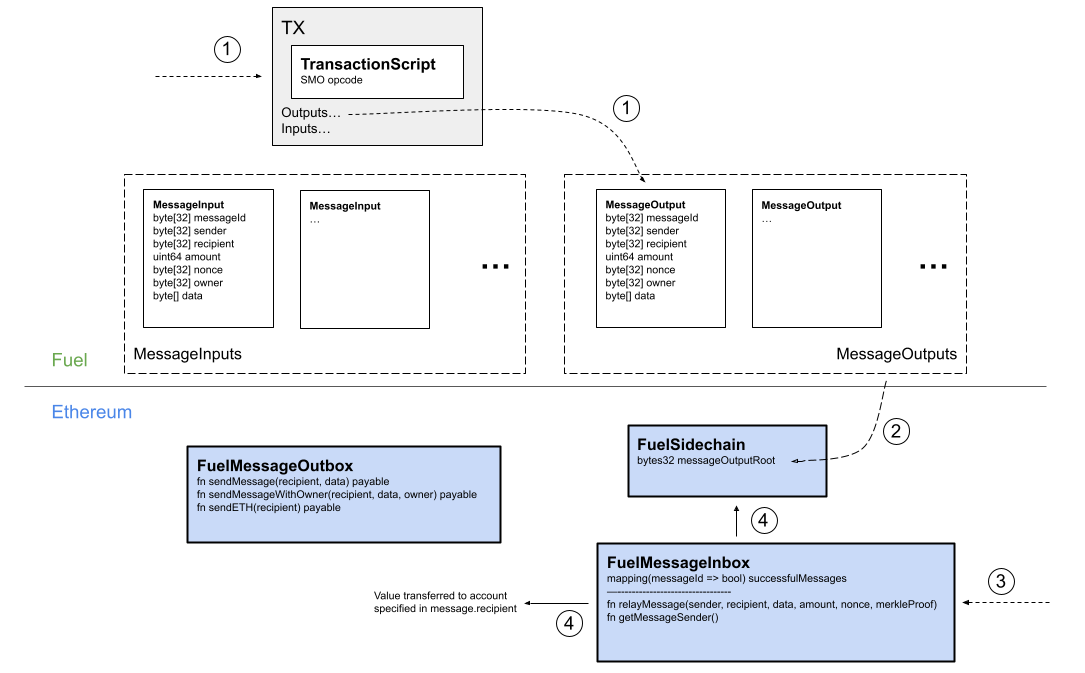
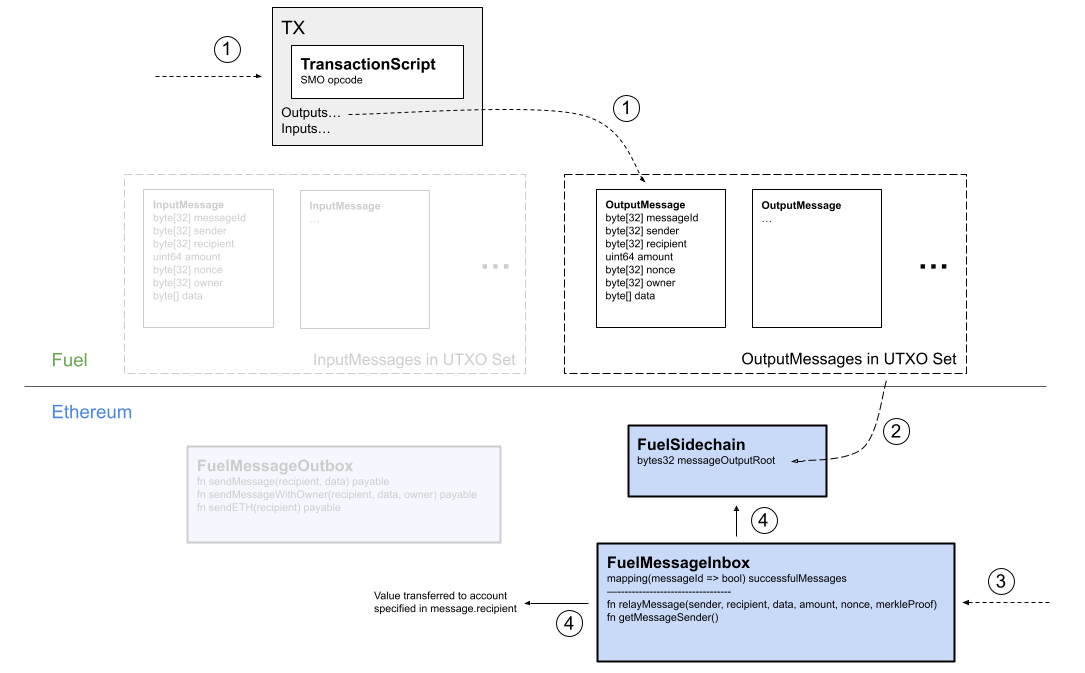
15 update documentation readability (#17)
* Fixed typos and naming

* updated images

* Updated images

diff --git a/docs/design_docs.md b/docs/design_docs.md
@@ -25,7 +25,7 @@ The ETH bridge facilitates the transfer of ETH from Ethereum to be represented a
 ### ETH Bridge Withdrawal
 
 1. User starts a withdrawal by creating a transaction that outputs a message output with a specific amount of ETH
-1. `MessageOutput` is noted on L1 by including the messagId in a merkle root in the state header committed to L1
+1. `OutputMessage` is noted on L1 by including the messagId in a merkle root in the state header committed to L1
 1. After any necessary finalization period, the user calls to the `FuelMessageInbox` with a merkle proof of the previous sent message
 1. The `FuelMessageInbox` verifies the given merkle proof and send the ETH to the designated message recipient
 
@@ -39,7 +39,7 @@ The ERC-20 bridge facilitates the transfer of ERC-20 tokens from Ethereum to be 
 
 1. User starts a deposit by calling deposit (has already approved token transfer to `L1ERC20Gateway`)
 1. `L1ERC20Gateway` transfers tokens to itself to custody while bridged
-1. `L1ERC20Gateway` creates a message in the `FuelMessageOutbox` to be relayed on Fuel with the `MessageToFungibleTokenPredicate` so that anyone can spend the `MessageInput` on a user's behalf but with guarantees that the transaction is built as it’s supposed to
+1. `L1ERC20Gateway` creates a message in the `FuelMessageOutbox` to be relayed on Fuel with the `MessageToFungibleTokenPredicate` so that anyone can spend the `InputMessage` on a user's behalf but with guarantees that the transaction is built as it’s supposed to
 1. Client sees the message on L1 via event logs
 1. A transaction is built and submitted by either the user or some relayer that meets the requirements of the `MessageToFungibleTokenPredicate`
 1. A single call is made from the transaction script to the intended recipient Fuel token contract. This function verifies the sender and predicate owner of the `InputMessage`, parses the data from the `InputMessage` data field and mints the appropriate amount of tokens
@@ -49,8 +49,8 @@ The ERC-20 bridge facilitates the transfer of ERC-20 tokens from Ethereum to be 
 ### ERC-20 Bridge Withdrawal
 
 1. User starts a withdrawal by calling the `FuelMyToken` contract sending some coins to withdraw along with it
-1. `FuelMyToken` contract looks to see what coins it was sent, burns them and then creates a `MessageOutput` via opcode
-1. `MessageOutput` is noted on L1 by including the messagId in a merkle root in the state header committed to L1
+1. `FuelMyToken` contract looks to see what coins it was sent, burns them and then creates a `OutputMessage` via opcode
+1. `OutputMessage` is noted on L1 by including the messagId in a merkle root in the state header committed to L1
 1. After any necessary finalization period, the user calls to the `FuelMessageInbox` with a merkle proof of the previous sent message
 1. The `FuelMessageInbox` verifies the given merkle proof and makes the message call to the `L1ERC20Gatewa`y specified in the message
 1. The `L1ERC20Gateway` verifies it’s being called by the `FuelMessageInbox` and releases the specified amount of tokens to the specified address
@@ -61,7 +61,7 @@ The ERC-20 bridge facilitates the transfer of ERC-20 tokens from Ethereum to be 
 
 In order to prevent messages getting lost during generic messaging from L1 to Fuel, developers should follow the following standard practice utilizing common libraries.
 
-1. Either a contract or EOA calls `sendMessage` on the `FuelMessageOutbox` that creates a message to be relayed on Fuel with the `MessageToContractPredicate` so that anyone can spend the `MessageInput` on a user's behalf but with guarantees that the transaction is built as it’s supposed to
+1. Either a contract or EOA calls `sendMessage` on the `FuelMessageOutbox` that creates a message to be relayed on Fuel with the `MessageToContractPredicate` so that anyone can spend the `InputMessage` on a user's behalf but with guarantees that the transaction is built as it’s supposed to
 1. Client sees the message on L1 via event logs
 1. A transaction is built and submitted by either the user or some relayer that meets the requirements of the `MessageToContractPredicate`
 1. The transaction script sends any amount on the message to the recipient contract and calls `processMessage` on the recipient Fuel token contract
